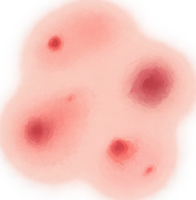
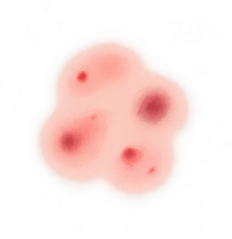
2026-08-18 시안 변경 반영
시안이 재업로드되며 노드 ID 가 31:* → 32:* 로 바뀌었다. 이전 덤프와
요소 단위로 비교해 실제 변경만 골라 적용했다.

겉모습 6종 전면 교체 (라벨·일러스트 모두)
  붉은 반점       → 붉어짐
  작은 돌기       → 돌기와 울퉁불퉁함
  털 주변 붉은 돌기 → 고름이 찬 돌기
  뾰루지          → (없어짐)
  각질/건조       → 자리 이동
  (신규)          번들거림/유분
  `고름이 찬 돌기` 가 계약이 요구하던 진물·고름 자리다. 이 값을 고르면
  관리 전 확인의 PUS_OOZING_BLISTER 가 미리 켜진다.
  일러스트는 시안 노드에서 직접 받았는데 배경 #F1F1F1 이 구워져 나와
  파란 타일 위에서 회색 네모가 됐다. 배경색 기준으로 알파를 복원했다.

보고 내용 확인 6행 → 5행
  `다른 부위 추가 설명` 행이 빠졌다(계약이 nullable 이라 늘 null 을 보낸다).
  `불편` 이 `피부 상태` 로 바뀌고 두 번째로 올라왔다.

새 화면 `원인 미파악`
  결과 화면 덱 위에 노란 배너(371×100 · 모서리 14 · #FCFFA3)가 붙는다.
  계약에 전용 필드가 없어 `reasonTags` 가 비었는지로 판단한다 — 이 값의
  정의가 `적용된 직전 상황과 현재 관리 상태 태그` 라 비면 원인을 못 집은 것이다.
  TODO(백엔드): 이 기준이 맞는지 확인 필요.

그 밖에
- 홈 `피부 점호 시작` → `피부 보고 시작`
- 피부보고2 버튼 위 31 → 40, 아래 30 → 35 (관리 상태 3개가 시안에도 반영됨)

diff --git a/src/pages/report/ConfirmStep.tsx b/src/pages/report/ConfirmStep.tsx
@@ -17,16 +17,16 @@ import type {
 
 export interface ConfirmValues {
   primaryArea: BodyArea | null;
-  /** 대표 부위 외에 불편한 곳. 계약상 선택값이라 비어 있어도 저장된다. */
+  /*
+   * 대표 부위 외에 불편한 곳. 2026-08-18 시안에서 입력 행이 빠져 **늘 null** 이다.
+   * 계약이 nullable 필수라 자리는 남긴다.
+   */
   otherAreasNote: string | null;
   appearances: AppearanceSelection;
   sensations: SensationSelection;
   situations: SituationSelection;
   careAvailability: CareAvailability | null;
 }
-
-/** `otherAreasNote` 의 계약상 상한. */
-const NOTE_MAX_LENGTH = 300;
 
 interface Props {
   options: SkinReportOptions;
@@ -37,17 +37,20 @@ interface Props {
   aiFailed?: boolean;
 }
 
-type FieldKey = keyof ConfirmValues;
+/** 화면에 행으로 나오는 항목. `otherAreasNote` 는 시안에서 빠져 여기 없다. */
+type FieldKey = Exclude<keyof ConfirmValues, 'otherAreasNote'>;
 
 /**
- * `required: false` 인 항목은 비어 있어도 다음으로 넘어갈 수 있어야 한다.
- * 유저플로우 3 의 `다른 부위는 추가 설명에 작성합니다` 가 여기 해당한다.
+ * 2026-08-18 시안(32:51747)에서 행이 **여섯 → 다섯**이 됐다.
+ *
+ *  · `다른 부위 추가 설명`(otherAreasNote) 행이 빠졌다. 계약은 이 값을
+ *    nullable 로 받으므로 늘 null 을 보낸다.
+ *  · `불편` 이 **`피부 상태`** 로 바뀌고 두 번째로 올라왔다.
  */
 const FIELDS: { key: FieldKey; label: string; required: boolean }[] = [
   { key: 'primaryArea', label: '부위', required: true },
-  { key: 'otherAreasNote', label: '다른 부위 추가 설명', required: false },
+  { key: 'sensations', label: '피부 상태', required: true },
   { key: 'appearances', label: '겉모습', required: true },
-  { key: 'sensations', label: '불편', required: true },
   { key: 'situations', label: '직전 상황', required: true },
   { key: 'careAvailability', label: '현재 상태', required: true },
 ];
@@ -65,8 +68,6 @@ export function ConfirmStep({ options, values, onChange, onConfirm, aiFailed }: 
     switch (key) {
       case 'primaryArea':
         return labelOf(options.areas, values.primaryArea);
-      case 'otherAreasNote':
-        return values.otherAreasNote ?? '';
       case 'appearances':
         return labelsOf(options.appearances, values.appearances);
       case 'sensations':
@@ -180,14 +181,6 @@ function EditSheet({
         />
       )}
 
-      {field === 'otherAreasNote' && (
-        <NoteField
-          value={values.otherAreasNote ?? ''}
-          // 빈 문자열이 아니라 null 로 보내야 한다. 계약이 nullable 로 정의돼 있다.
-          onChange={(text) => onChange({ otherAreasNote: text.trim() === '' ? null : text })}
-        />
-      )}
-
       {field === 'appearances' && (
         <ChoiceList
           mode="multi"
@@ -225,31 +218,5 @@ function EditSheet({
         />
       )}
     </BottomSheet>
-  );
-}
-
-/** 대표 부위 하나만 고르게 되어 있어서, 나머지는 여기에 글로 남긴다. (유저플로우 3) */
-function NoteField({ value, onChange }: { value: string; onChange: (value: string) => void }) {
-  return (
-    <div className="flex flex-col gap-2">
-      <p className="px-1 text-xs leading-4 text-fg-muted">
-        <Sentences text="대표 부위 말고 다른 곳도 불편하다면 적어주세요. 없으면 비워 두어도 괜찮아요." />
-      </p>
-
-      <div className="relative">
-        <textarea
-          value={value}
-          onChange={(e) => onChange(e.target.value)}
-          maxLength={NOTE_MAX_LENGTH}
-          rows={4}
-          placeholder="예: 왼쪽 볼도 살짝 붉어요."
-          aria-label="다른 부위 추가 설명"
-          className="w-full resize-none rounded-card bg-panel px-4 py-4 text-base text-panel-text placeholder:text-panel-label focus:outline-none focus:ring-2 focus:ring-info"
-        />
-        <span className="pointer-events-none absolute bottom-4 right-4 text-xs text-panel-label">
-          {value.length}/{NOTE_MAX_LENGTH}
-        </span>
-      </div>
-    </div>
   );
 }

diff --git a/src/api/designOptions.ts b/src/api/designOptions.ts
@@ -62,18 +62,25 @@ export interface AppearanceOption {
 }
 
 /*
- * 시안은 여섯 장이고 계약의 `OOZING`(진물)·`CRUST`(딱지)가 빠져 있다.
- * 2026-08-16 결정표에서 이 항목은 `패스(자료 조사 후 결정)` 로 남았다.
- * 사용자는 `관리 전 확인` 에서 `고름·진물·물집` 을 직접 고르므로
- * **의료진 확인 분기는 지금도 정상 동작한다.** (docs/명세-대조.md 2-0)
+ * 2026-08-18 시안에서 여섯 종이 **전부 교체**됐다(라벨·일러스트 모두).
+ *   붉은 반점 → 붉어짐 / 작은 돌기 → 돌기와 울퉁불퉁함
+ *   털 주변 붉은 돌기 → 고름이 찬 돌기 / 뾰루지 → (없어짐)
+ *   각질·건조는 자리만 옮겼고 `번들거림/유분` 이 새로 들어왔다.
+ *
+ * `고름이 찬 돌기` 가 계약이 요구하던 진물·고름 자리다. 이 값이 선택되면
+ * 관리 전 확인의 `PUS_OOZING_BLISTER` 가 미리 켜진다(schemas.ts seedPreCareChecks).
+ *
+ * TODO(백엔드): 계약의 `AppearanceSelection` 은 v2 에서도 enum 이 비어 있고
+ * `/reference-data` 의 값으로만 검증한다. 아래 value 는 **확정 전 임시 이름**이다.
+ * 서버가 여섯 값을 정하면 그대로 맞춘다. (2026-08-19 전달 예정)
  */
 export const APPEARANCE_OPTIONS: AppearanceOption[] = [
-  { value: 'REDNESS', label: '붉은 반점', image: 'redness' },
-  { value: 'SMALL_BUMPS', label: '작은 돌기', image: 'small-bumps' },
-  { value: 'RED_BUMPS_AROUND_HAIR', label: '털 주변 붉은 돌기', image: 'red-bumps-around-hair' },
-  { value: 'WHITE_TIPPED_BUMPS', label: '뾰루지', image: 'white-tipped-bumps' },
+  { value: 'REDNESS', label: '붉어짐', image: 'redness' },
+  { value: 'BUMPS_UNEVEN', label: '돌기와 울퉁불퉁함', image: 'bumps-uneven' },
+  { value: 'PUS_BUMPS', label: '고름이 찬 돌기', image: 'pus-bumps' },
   { value: 'ROUGHNESS_FLAKING', label: '각질/건조', image: 'roughness-flaking' },
-  { value: 'UNSURE', label: '기타', image: 'other' },
+  { value: 'OILY_SHINE', label: '번들거림/유분', image: 'oily-shine' },
+  { value: 'OTHER', label: '기타', image: 'other' },
 ];
 
 // --- 직전 상황 (피부보고2) -----------------------------------------------------

diff --git a/src/pages/ReportResultPage.tsx b/src/pages/ReportResultPage.tsx
@@ -7,6 +7,7 @@ import { toUserMessage } from '@/api/problem';
 import { queryKeys } from '@/app/queryClient';
 import { AiLoading } from '@/components/AiLoading';
 import { ClinicianModal } from '@/components/ClinicianModal';
+import causeUnknownIcon from '@/assets/icon-cause-unknown.svg';
 import { MedicalDisclaimer } from '@/components/ResultSection';
 import { StepLayout } from '@/components/StepLayout';
 import { Sentences, splitSentences } from '@/components/Sentences';
@@ -114,6 +115,31 @@ const CARDS: CardMeta[] = [
 ];
 
 /**
+ * 원인 미파악 안내 (시안 32:53392).
+ *
+ * 결과 화면과 같은 덱 위에 배너 하나가 더 붙은 형태다.
+ * 계약에 `원인 미파악` 전용 필드가 없어서 `reasonTags` 가 비었는지로 본다 —
+ * 이 값의 정의가 `안내가 달라진 이유. 적용된 직전 상황과 현재 관리 상태 태그` 라
+ * 비어 있으면 기록에서 원인을 못 집어낸 것이다.
+ *
+ * TODO(백엔드): 이 판단 기준이 맞는지 확인 필요. 전용 플래그가 생기면 그걸 쓴다.
+ */
+function CauseUnknownBanner() {
+  return (
+    // 시안 32:53408 — 369×100, 모서리 14, 바탕 #FCFFA3
+    <div className="mb-[26px] rounded-[14px] bg-[#FCFFA3] px-[21px] pb-[25px] pt-[25px]">
+      <p className="flex items-center gap-[10px] text-body-strong text-fg">
+        <img src={causeUnknownIcon} alt="" className="size-[24px] shrink-0" />
+        원인을 특정하기 어려워요
+      </p>
+      <p className="mt-[10px] text-xs leading-[14px] text-fg">
+        현재 기록만으로는 피부 상태의 원인을 파악하기 어려워요
+      </p>
+    </div>
+  );
+}
+
+/**
  * 카드에 번지는 빛.
  *
  * 시안의 카드는 단색이 아니라 가운데가 밝은 방사형 그라데이션이다.
@@ -210,6 +236,8 @@ export function ReportResultPage() {
       </header>
 
       <main className="pl-[14px] pr-[17px]">
+        {care.reasonTags.length === 0 && <CauseUnknownBanner />}
+
         <Deck
           deck={deck}
           opened={opened}

diff --git a/src/mocks/handlers.ts b/src/mocks/handlers.ts
@@ -27,7 +27,8 @@ function problem(status: number, code: string, detail: string) {
  * 시연 리허설과 예외 UI 확인에 쓴다.
  */
 export const mockState = {
-  scenario: 'happy' as 'happy' | 'ai-fail' | 'clinician' | 'slow' | 'server-error',
+  scenario: 'happy' as
+    'happy' | 'ai-fail' | 'clinician' | 'slow' | 'server-error' | 'cause-unknown',
   aiDelayMs: 1200,
 
   /** 오늘 점호 상태. null 이면 미응답. */
@@ -271,7 +272,11 @@ export const handlers = [
     const body = (await request.json()) as { preCareChecks?: string[] };
     const isClinician =
       mockState.scenario === 'clinician' || (body.preCareChecks ?? []).some((c) => c !== 'NONE');
-    const report = isClinician ? fx.clinicianReport : fx.selfCareReport;
+    let report = isClinician ? fx.clinicianReport : fx.selfCareReport;
+    // 원인 미파악 화면(32:53392)은 `reasonTags` 가 빈 상태로 본다.
+    if (mockState.scenario === 'cause-unknown') {
+      report = { ...report, careResult: { ...report.careResult, reasonTags: [] } };
+    }
 
     // 같은 날 `불편 없음` 이 저장돼 있었다면 피부 보고가 우선한다. (공통 정책 7.1)
     mockState.today = {
@@ -312,7 +317,10 @@ export const handlers = [
     if (!summary) return problem(404, 'NOT_FOUND', '기록을 찾을 수 없어요.');
 
     // 목록 항목을 상세로 부풀린다. 결과 유형에 맞는 기본 상세를 고르고 목록 값으로 덮는다.
-    const base = summary.resultType === 'CLINICIAN_CHECK' ? fx.clinicianReport : fx.selfCareReport;
+    let base = summary.resultType === 'CLINICIAN_CHECK' ? fx.clinicianReport : fx.selfCareReport;
+    if (mockState.scenario === 'cause-unknown') {
+      base = { ...base, careResult: { ...base.careResult, reasonTags: [] } };
+    }
     const hasFollowUp = summary.status === 'COMPLETED' && summary.skinChange !== null;
 
     return HttpResponse.json({

diff --git a/src/mocks/fixtures.ts b/src/mocks/fixtures.ts
@@ -84,12 +84,12 @@ export const reportOptions: SkinReportOptions = {
    * 관리 전 확인의 `PUS_OOZING_BLISTER` 자동 선택이 이 값에 묶여 있다.
    */
   appearances: [
-    { value: 'REDNESS', label: '붉은 반점' },
-    { value: 'SMALL_BUMPS', label: '작은 돌기' },
-    { value: 'RED_BUMPS_AROUND_HAIR', label: '털 주변 붉은 돌기' },
-    { value: 'WHITE_TIPPED_BUMPS', label: '뾰루지' },
+    { value: 'REDNESS', label: '붉어짐' },
+    { value: 'BUMPS_UNEVEN', label: '돌기와 울퉁불퉁함' },
+    { value: 'PUS_BUMPS', label: '고름이 찬 돌기' },
     { value: 'ROUGHNESS_FLAKING', label: '각질/건조' },
-    { value: 'OOZING', label: '진물' },
+    { value: 'OILY_SHINE', label: '번들거림/유분' },
+    { value: 'OTHER', label: '기타' },
   ],
   // v2 에서 감각 7종이 불편 유형 3종으로 전면 교체됐다.
   sensations: [

diff --git a/src/api/schemas.ts b/src/api/schemas.ts
@@ -86,5 +86,6 @@ export function seedPreCareChecks(
   current: PreCareCheckSelection,
 ): PreCareCheckSelection {
   if (current.length > 0) return current;
-  return appearances.includes('OOZING') ? ['PUS_OOZING_BLISTER'] : current;
+  // 2026-08-18 시안의 `고름이 찬 돌기` 가 진물·고름 자리다. (designOptions 의 TODO 참고)
+  return appearances.includes('PUS_BUMPS') ? ['PUS_OOZING_BLISTER'] : current;
 }

diff --git a/src/pages/report/Report2Step.tsx b/src/pages/report/Report2Step.tsx
@@ -102,7 +102,8 @@ export function Report2Step({ situations, care, sensations, onChange, onNext }: 
         onSelect={toggleSensation}
       />
 
-      <div className="mt-[31px] pb-[30px]">
+      {/* 시안 32:52978 — 타일 아래 40, 프레임 끝까지 35 */}
+      <div className="mt-[40px] pb-[35px]">
         <PrimaryButton onClick={onNext} disabled={!canSubmit}>
           다음
         </PrimaryButton>

diff --git a/src/pages/HomePage.tsx b/src/pages/HomePage.tsx
@@ -180,7 +180,7 @@ function TodayCheckCard({ data, onNavigate }: { data: Home; onNavigate: (to: str
         />
         <ActionTile
           icon="face"
-          title="피부 점호 시작"
+          title="피부 보고 시작"
           caption={answeredToday ? '오늘의 안내 다시 보기' : '상태를 기록하고 관리받기'}
           tone="accent"
           onClick={() =>
